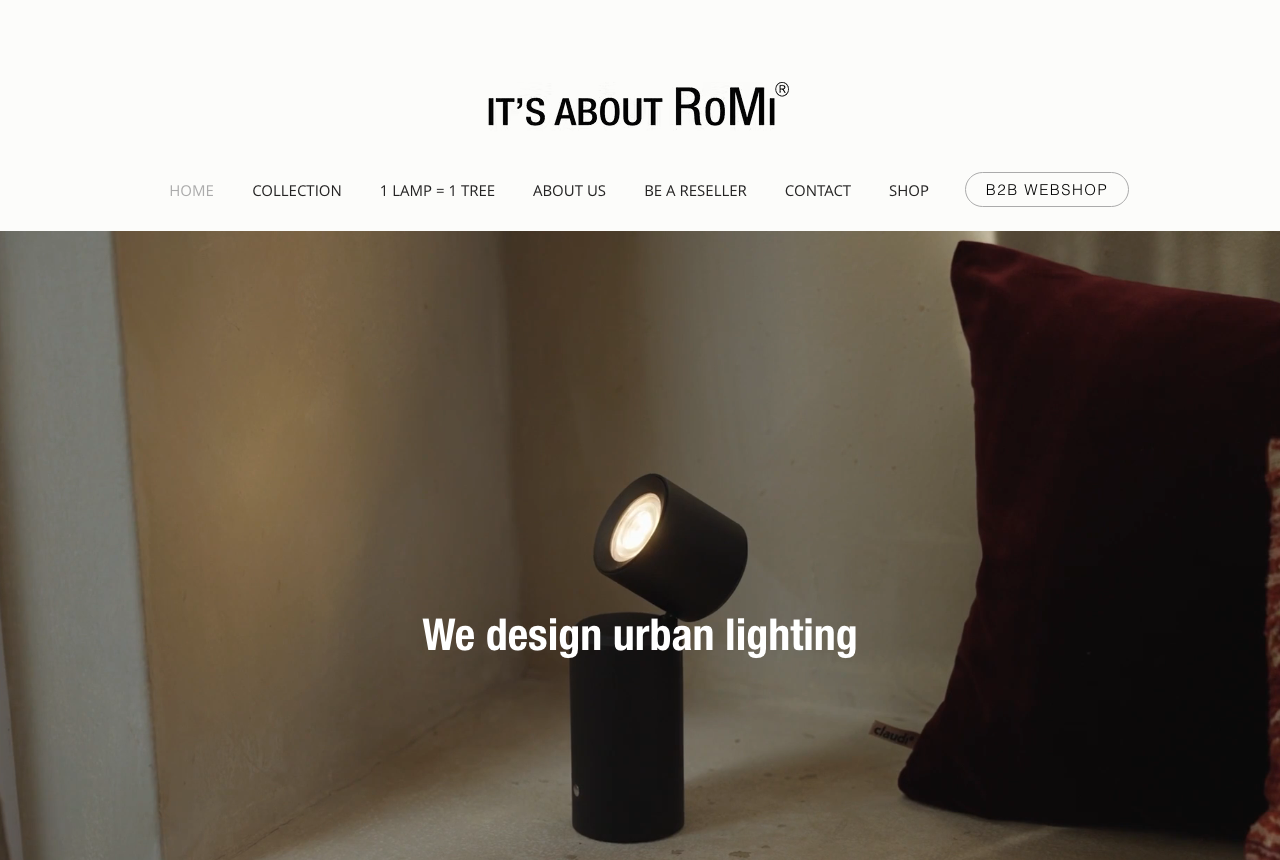
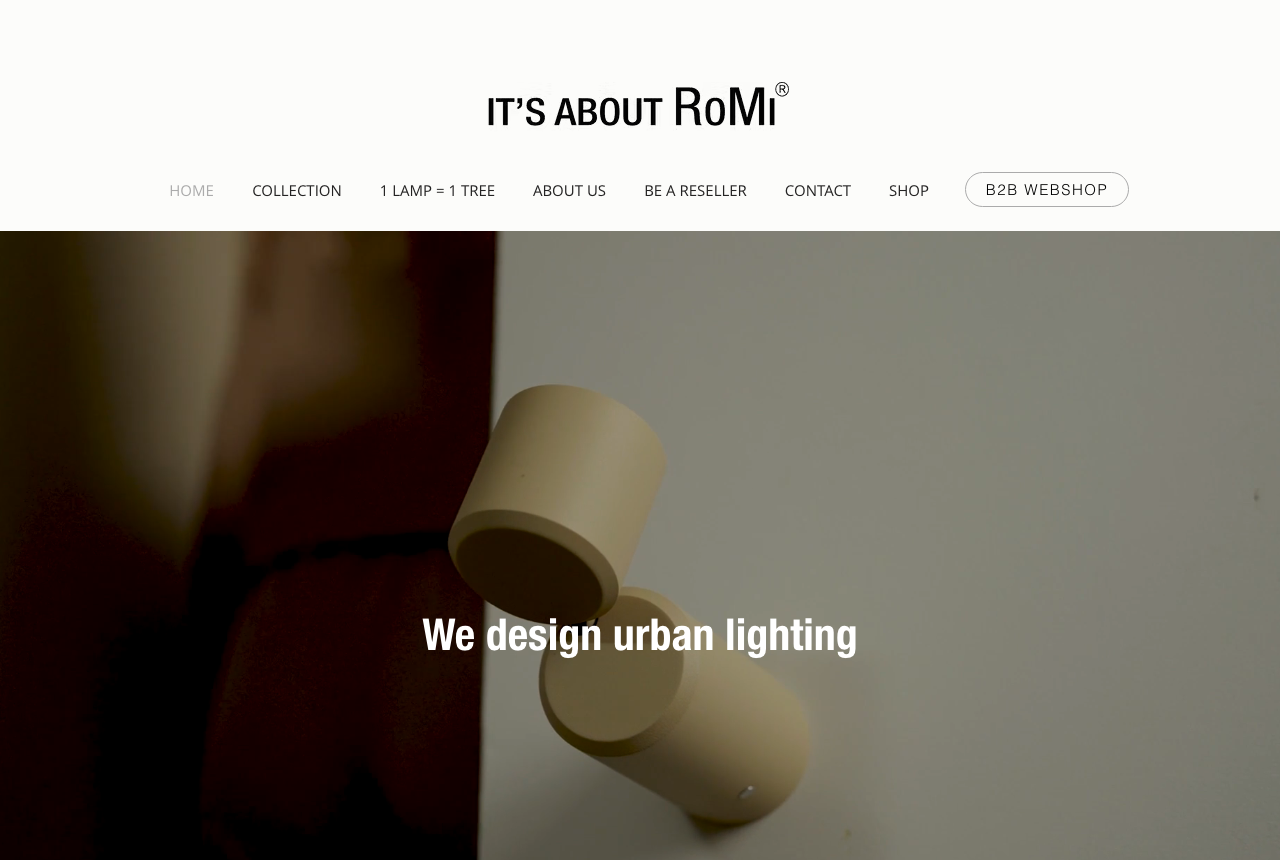
Fix screenshots: 404s, cookiebanners en ontbrekende bestanden
- yaya, loisjeans, kosso, vetain, refished: correcte Trustpilot URLs
- sproet, snurk: cookiebanners verwijderd
- pennink: pennandink-ny.com gebruikt
- flotte, transfer, aver-living: screenshot-refs verwijderd uit HTML
  (domeinen niet bereikbaar)
- eindbaas, romi, bazarbizar, pomax: vernieuwd

diff --git a/bcs/flotte.html b/bcs/flotte.html
@@ -47,17 +47,13 @@
 
     <p class="r">Dit zijn patronen die ik terugzie bij elk Shopify D2C-merk dat op herhaalaankopen draait. En die ik ook bij FLOTTE herken.</p>
 
-    <div class="evidence r">
-      <img src="screenshots/flotte-tp.png" alt="Reviews FLOTTE">
-    </div>
+    
 
     <p class="r"><strong>Het herhaalaankoopmodel vergroot het belang van elke CS-interactie.</strong> Bij een eenmalige aankoop is een slechte ervaring een verloren deal. Bij essentials is het een verloren klant met een hoge verwachte lifetime value. De CS-kost van één mislukte interactie is veel hoger dan bij een gewone transactie.</p>
 
     <p class="r"><strong>Loungewear genereert specifieke en materiaalgebonden vragen.</strong> Hoe was je dit? Krimpt het na wassen? Hoe zit de maat? Past het bij een vorige aankoop? Dat zijn vragen die je niet met een standaardantwoord kunt afhandelen. Ze vereisen kennis van het assortiment en het materiaal.</p>
 
-    <div class="evidence r">
-      <img src="screenshots/flotte-home.png" alt="FLOTTE website">
-    </div>
+    
 
     <p class="r"><strong>Contactstructuur is bij dit type merk typisch beperkt.</strong> Een team dat gefocust is op product en inkoop heeft klantenservice er vaak bij gedaan. Dat werkt zolang het volume laag is. Op het moment dat het volume groeit, ontstaat er een achterstand die moeilijk in te halen is.</p>
   </section>

diff --git a/bcs/transfer.html b/bcs/transfer.html
@@ -42,15 +42,11 @@
 
     <p class="r">De kracht van Transfer zit in de productkwaliteit en het niche karakter. Maar juist bij niche producten is de klant kritischer. Ze kopen bewust, ze zijn betrokken bij het materiaal, en ze hebben vragen die verder gaan dan leveringstijd en retourbeleid.</p>
 
-    <div class="evidence r d1">
-      <img src="screenshots/transfer-tp.png" alt="Transfer online reputatie">
-    </div>
+    
 
     <p class="r">De tweede observatie gaat over de reputatieopbouw. Een beperkte of afwezige Trustpilot-aanwezigheid maakt het moeilijker voor nieuwe klanten om vertrouwen te bouwen voordat ze kopen. Bij een boutique merk als Transfer kan dat het verschil zijn tussen een eerste aankoop en afhaken.</p>
 
-    <div class="evidence r d1">
-      <img src="screenshots/transfer-home.png" alt="Transfer webshop">
-    </div>
+    
 
     <p class="r">De derde observatie: bij boutique schaal is het team waarschijnlijk klein en multifunctioneel. CS wordt dan opgepakt naast andere taken, wat betekent dat de kwaliteit en snelheid van antwoorden afhankelijk is van hoe druk het op een gegeven moment is. Dat is een kwetsbaarheid.</p>
 

diff --git a/bcs/aver-living.html b/bcs/aver-living.html
@@ -12,7 +12,7 @@
 <section class="sec">
   <div class="lbl r">Wat ik zag bij Aver Living</div>
   <p class="r">Ik keek naar de online aanwezigheid van Aver Living. En ik keek naar de CS-structuur die zichtbaar is.</p>
-  <div class="evidence r d1"><img src="screenshots/aver-home.png" alt="Aver Living website"></div>
+  
   <p class="r">Woonaccessoires hebben een hoge visuele verwachting op basis van productfoto's. Klanten kopen wat ze zien. Als het product er thuis anders uitziet, of als een levering beschadigt, is de klant teleurgesteld op een emotioneel moment. <strong>Dat is het CS-moment waarop het merk wint of verliest.</strong></p>
   <p class="r">Bij een groeiend merk in deze categorie zie ik dat de CS-structuur vaak later groeit dan de webshop. Zolang het rustig is, gaat dat goed. Maar als het volume toeneemt, heeft het merk een structuur nodig die dat aankan.</p>
   <div class="pull r">'De klant koopt de ruimte die ze voor ogen heeft. CS bepaalt of ze terugkomt als het niet klopt.'</div>
